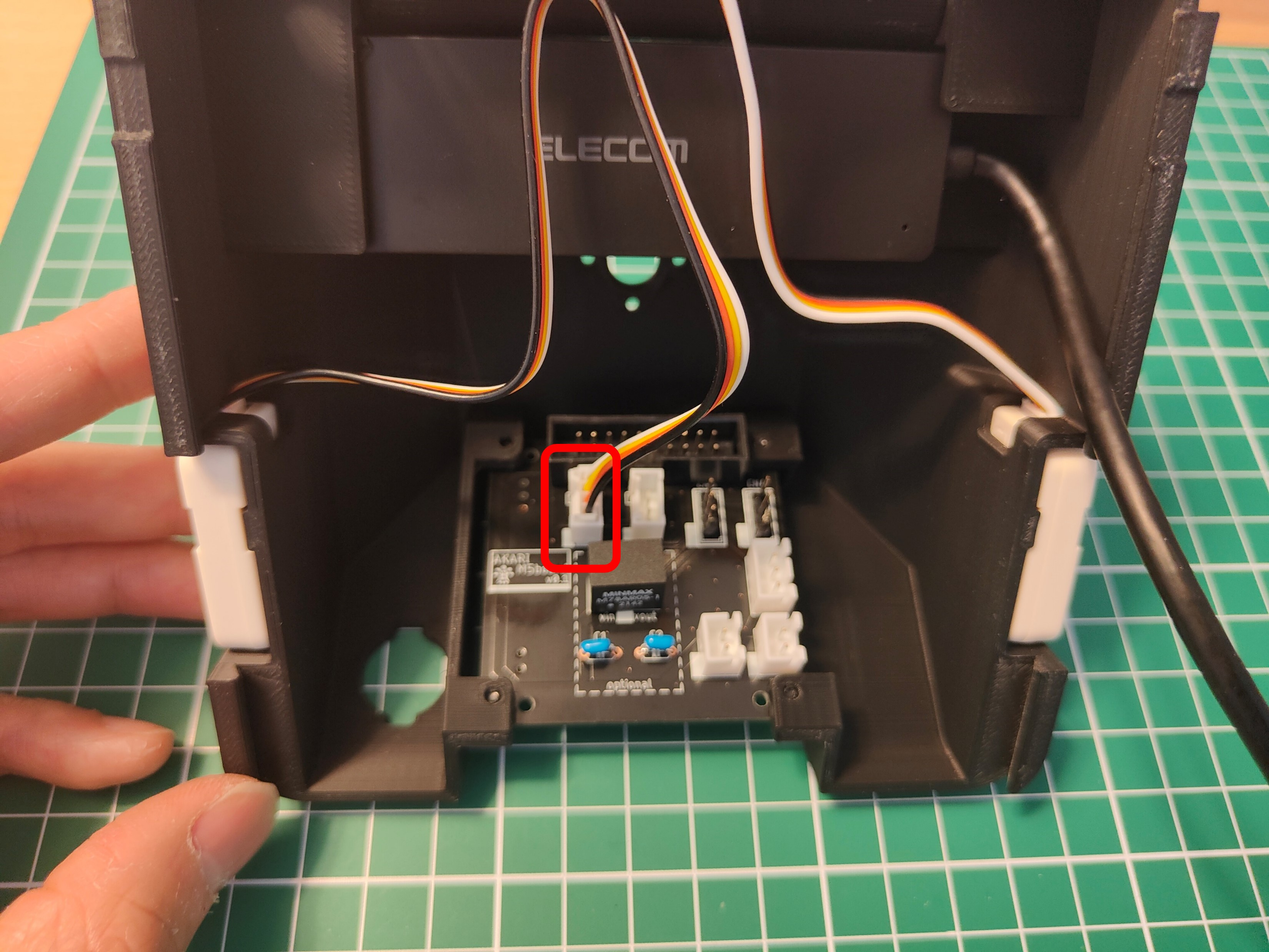
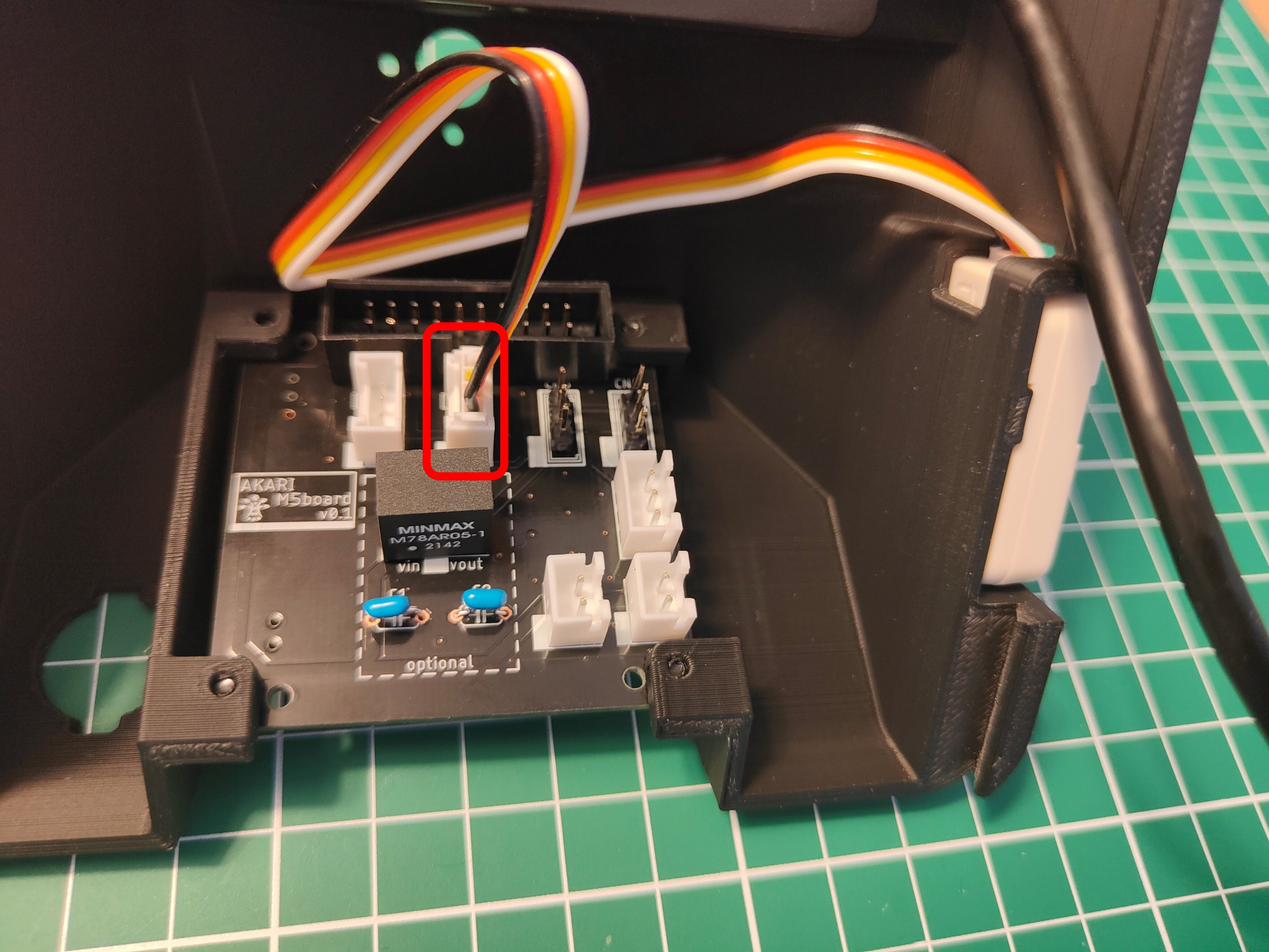
fix_assembly_head&body

diff --git a/source/assembly/assembly_hard/assembly_head.rst b/source/assembly/assembly_hard/assembly_head.rst
@@ -15,15 +15,15 @@
 
 必要な部品
 ^^^^^^^^
-| (26) Dynamixel 2XL430-W250-T 1個
-| (27) HN11-I101  1個
+| (27) Dynamixel 2XL430-W250-T 1個
+| (28) HN11-I101  1個
 
 .. image:: ../../images/assembly/head/head1-0.jpg
     :width: 300px
 
 手順
 ^^^^^^^^
-1. `(26) Dynamixel 2XL430-W250-T` のID(B)ポートに付属のケーブルを接続する。
+1. `(27) Dynamixel 2XL430-W250-T` のID(B)ポートに付属のケーブルを接続する。
 
 .. image:: ../../images/assembly/head/head1-1.jpg
     :width: 300px
@@ -168,7 +168,7 @@
 
 必要な部品
 ^^^^^^^^
-| (30) パネルマウントUSB3.0ケーブル 30cm 1個
+| (31) パネルマウントUSB3.0ケーブル 30cm 1個
 | (37) ボルトM3-6 2個
 .. image:: ../../images/assembly/head/head6-0.jpg
     :width: 300px

diff --git a/source/assembly/assembly_hard/assembly_body.rst b/source/assembly/assembly_hard/assembly_body.rst
@@ -388,7 +388,7 @@
 .. image:: ../../images/assembly/body/body13-1.jpg
     :width: 300px
 
-2. ボディー内のUSBハブにケーブルを差し込む。
+1. ボディー内を通って背面のカバー部分から出す。
 
 .. image:: ../../images/assembly/body/body13-2.jpg
     :width: 300px
